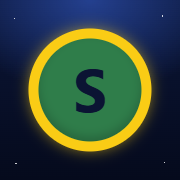
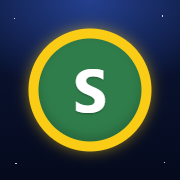
App 圖示中間的 S 改成白色

Changed region(s): [[0.4167, 0.3611, 0.6111, 0.6389]]

diff --git a/index.html b/index.html
@@ -13,16 +13,16 @@
   <meta property="og:title" content="諸行漸次止息">
   <meta property="og:description" content="趨近・遠離・平安 記憶庫。所有記憶只存在這台裝置，不會上傳。">
   <meta property="og:url" content="https://asuby822121.github.io/zhuxing-jianci-zhixi/">
-  <meta property="og:image" content="https://asuby822121.github.io/zhuxing-jianci-zhixi/icons/s3-icon-512.png">
+  <meta property="og:image" content="https://asuby822121.github.io/zhuxing-jianci-zhixi/icons/s4-icon-512.png">
   <meta property="og:image:width" content="512">
   <meta property="og:image:height" content="512">
   <!-- 加到手機主畫面當 App 用（PWA） -->
-  <link rel="manifest" href="manifest.webmanifest?v=8">
+  <link rel="manifest" href="manifest.webmanifest?v=11">
   <link rel="icon" href="favicon.ico" sizes="48x48">
   <link rel="shortcut icon" href="favicon.ico">
-  <link rel="icon" type="image/png" sizes="48x48" href="icons/s3-favicon-48.png">
-  <link rel="icon" type="image/png" sizes="192x192" href="icons/s3-icon-192.png">
-  <link rel="apple-touch-icon" href="icons/s3-apple-touch-icon.png">
+  <link rel="icon" type="image/png" sizes="48x48" href="icons/s4-favicon-48.png">
+  <link rel="icon" type="image/png" sizes="192x192" href="icons/s4-icon-192.png">
+  <link rel="apple-touch-icon" href="icons/s4-apple-touch-icon.png">
   <meta name="apple-mobile-web-app-capable" content="yes">
   <meta name="mobile-web-app-capable" content="yes">
   <meta name="apple-mobile-web-app-status-bar-style" content="black-translucent">

diff --git a/sw.js b/sw.js
@@ -1,17 +1,17 @@
 // 諸行漸次止息 service worker
 // 只快取 App 自己的檔案，讓手機離線也能打開。
 // 不處理、不傳送任何記憶資料（記憶只在 localStorage）。
-const CACHE = 'zhuxing-v10';
+const CACHE = 'zhuxing-v11';
 const FILES = [
   './',
   './index.html',
-  './manifest.webmanifest?v=8',
+  './manifest.webmanifest?v=11',
   './vendor/tailwind-3.4.17.js',
   './vendor/lucide-0.460.0.min.js',
-  './icons/s3-icon-192.png',
-  './icons/s3-icon-512.png',
-  './icons/s3-apple-touch-icon.png',
-  './icons/s3-favicon-48.png',
+  './icons/s4-icon-192.png',
+  './icons/s4-icon-512.png',
+  './icons/s4-apple-touch-icon.png',
+  './icons/s4-favicon-48.png',
   './favicon.ico'
 ];
 
